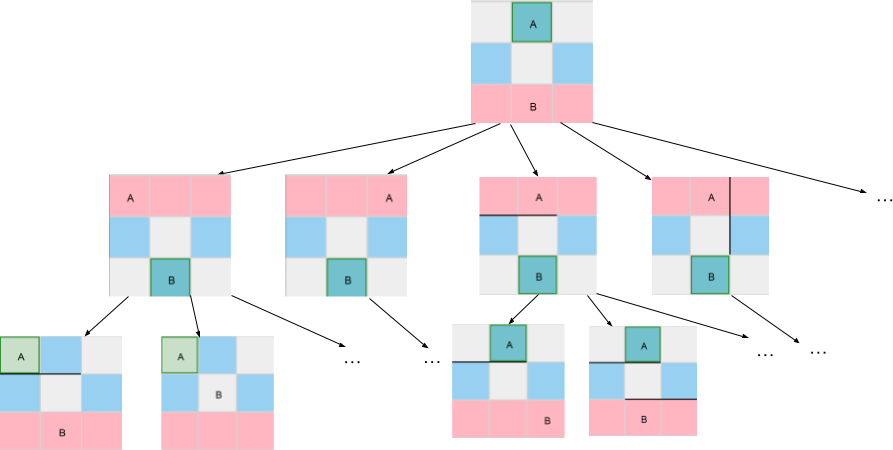
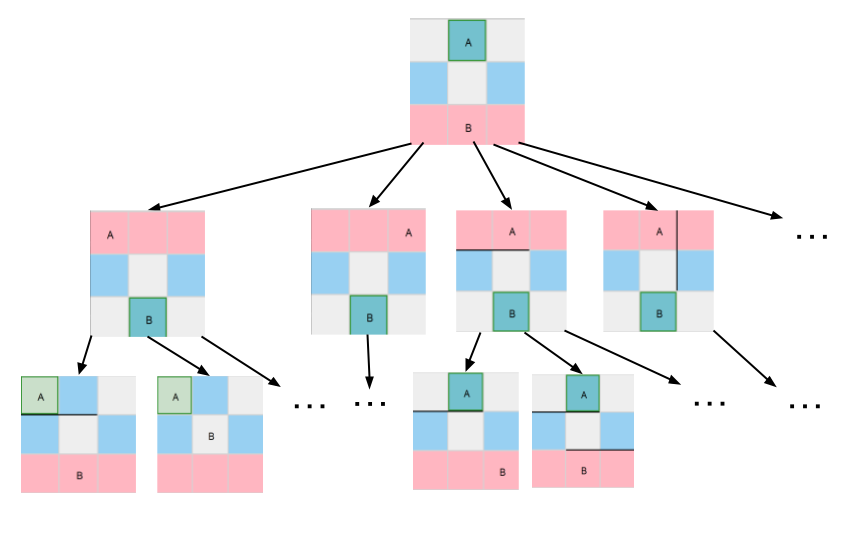
add better looking game tree

diff --git a/Quoridor/Thesis/en/chapters/chap02.tex b/Quoridor/Thesis/en/chapters/chap02.tex
@@ -3,6 +3,6 @@
 \begin{figure}[h]
     \centering
     \includegraphics[scale=0.45]{../img/GameBoard/game_tree.png}
-    \caption{A partial game tree for a 3x3 game board}
+    \caption{A partial game tree for a 3x3 game board.}
     \label{fig:GameTree}
 \end{figure}
